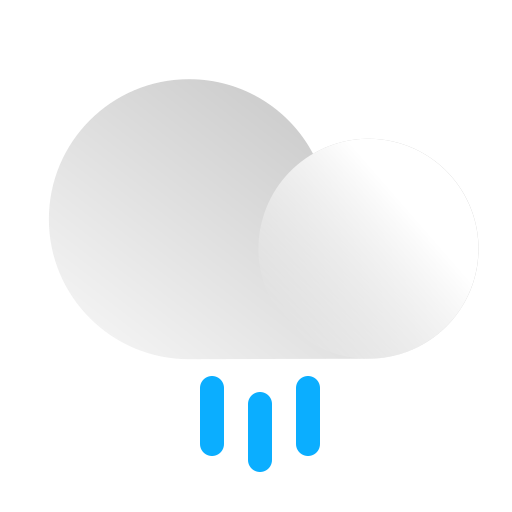
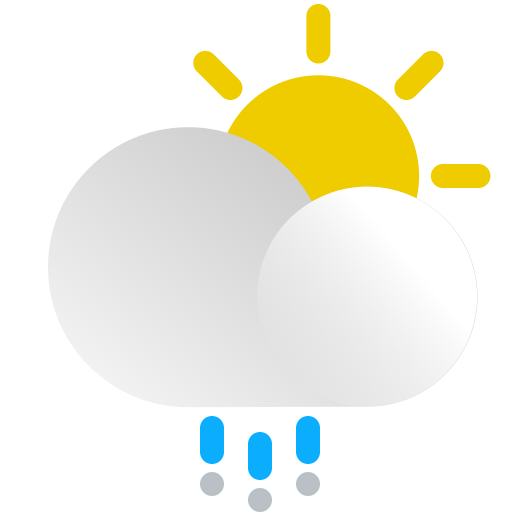
Add add day night

diff --git a/assets/js/main.js b/assets/js/main.js
@@ -65,33 +65,60 @@ const getWeather = () => {
 
           const currWeather = cityData.weather[0].main;
 
-          const setWeatherImage = (weather, imgElement) => {
-            switch (weather) {
-              case "Thunderstorm":
-                imgElement.src = "./assets/img/thunderstorm.png";
-                break;
-              case "Drizzle":
-                imgElement.src = "./assets/img/shower_rain.png";
-                break;
-              case "Rain":
-                imgElement.src = "./assets/img/rain.png";
-                break;
-              case "Snow":
-                imgElement.src = "./assets/img/snow.png";
-                break;
-              case "Mist":
-                imgElement.src = "./assets/img/mist.png";
-                break;
-              case "Clear":
-                imgElement.src = "./assets/img/clear_sky.png";
-                break;
-              default:
-                imgElement.src = "./assets/img/few_clouds.png";
-                break;
+          const setWeatherImage = (time, weather, imgElement) => {
+            hourArray = timeConvert(time).split(":");
+            if (Number(hourArray[0]) >= 18 || Number(hourArray[0]) <= 6) {
+              switch (weather) {
+                case "Thunderstorm":
+                  imgElement.src = "./assets/img/storm_dark.png";
+                  break;
+                case "Drizzle":
+                  imgElement.src = "./assets/img/drizzle_dark.png";
+                  break;
+                case "Rain":
+                  imgElement.src = "./assets/img/rain_dark.png";
+                  break;
+                case "Snow":
+                  imgElement.src = "./assets/img/snow_dark.png";
+                  break;
+                case "Mist":
+                  imgElement.src = "./assets/img/mist.png";
+                  break;
+                case "Clear":
+                  imgElement.src = "./assets/img/clear_sky_dark.png";
+                  break;
+                default:
+                  imgElement.src = "./assets/img/few_clouds_dark.png";
+                  break;
+              }
+            } else {
+              switch (weather) {
+                case "Thunderstorm":
+                  imgElement.src = "./assets/img/storm.png";
+                  break;
+                case "Drizzle":
+                  imgElement.src = "./assets/img/drizzle.png";
+                  break;
+                case "Rain":
+                  imgElement.src = "./assets/img/rain.png";
+                  break;
+                case "Snow":
+                  imgElement.src = "./assets/img/snow.png";
+                  break;
+                case "Mist":
+                  imgElement.src = "./assets/img/mist.png";
+                  break;
+                case "Clear":
+                  imgElement.src = "./assets/img/clear_sky.png";
+                  break;
+                default:
+                  imgElement.src = "./assets/img/few_clouds.png";
+                  break;
+              }
             }
           };
 
-          setWeatherImage(currWeather, iconCurrWeather);
+          setWeatherImage(cityData.dt, currWeather, iconCurrWeather);
 
           city.innerHTML = `${geoData[0].name} - ${timeConvert(cityData.dt)} - ${currWeather.charAt(0).toUpperCase() + currWeather.slice(1)}`;
 
@@ -104,10 +131,6 @@ const getWeather = () => {
           for (const element of infoGridElement) {
             element.classList.add("grid-element-one");
           }
-
-          // localTime.innerHTML = timeConvert(cityData.dt);
-          // cloudness.innerHTML = currWeather;
-          // pressure.innerHTML = cityData.main.pressure + " nPa";
 
           fahrenheitImg.src = "./assets/img/fahrenheit.png";
           fahrenheit.innerHTML = tempF + "°F";
@@ -139,11 +162,11 @@ const getWeather = () => {
 
               const conditions = [forecast.list[0].weather[0].main, forecast.list[1].weather[0].main, forecast.list[2].weather[0].main, forecast.list[3].weather[0].main, forecast.list[4].weather[0].main];
 
-              setWeatherImage(forecast.list[0].weather[0].main, timeImgOne);
-              setWeatherImage(forecast.list[1].weather[0].main, timeImgTwo);
-              setWeatherImage(forecast.list[2].weather[0].main, timeImgThree);
-              setWeatherImage(forecast.list[3].weather[0].main, timeImgFour);
-              setWeatherImage(forecast.list[4].weather[0].main, timeImgFive);
+              setWeatherImage(list[0].dt, forecast.list[0].weather[0].main, timeImgOne);
+              setWeatherImage(list[1].dt, forecast.list[1].weather[0].main, timeImgTwo);
+              setWeatherImage(list[2].dt, forecast.list[2].weather[0].main, timeImgThree);
+              setWeatherImage(list[3].dt, forecast.list[3].weather[0].main, timeImgFour);
+              setWeatherImage(list[4].dt, forecast.list[4].weather[0].main, timeImgFive);
 
               let newTemps = [];
 

diff --git a/index.html b/index.html
@@ -69,7 +69,7 @@
                 <p class="time-three"></p>
                 <div class="line"></div>
                 <div>
-                  <img class="img-time-three" src="" alt="" />
+                  <img class="img-time-three" src="" alt="" />  
                   <p class="grad-three"></p>
                 </div>
               </div>

diff --git a/assets/css/style.css b/assets/css/style.css
@@ -76,7 +76,7 @@ p {
   }
 }
 
-.unit {
+.grad {
   z-index: 2;
 }
 
